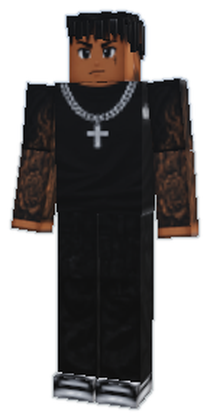
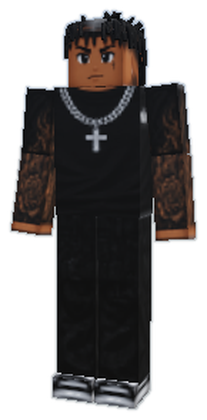
Cabelo 3D com formas de verdade: espirais, tubos, touca arredondada e bolinhas
- Touca: superelipsoide (caixa de cantos redondos) que abraça a cabeça quadrada; desce pouco
  na frente (testa livre) e mais atrás (nuca); no curto fica só no alto (degradê)
- Cacheado: espirais (tubos enrolados) por toda a cabeça e franja de cachos na testa
- Dreads: mechas em tubo que saem da cabeça e caem com o peso, torcidas, mais longas atrás
- Black: volume grande arredondado coberto de bolinhas
- Curto: espirais pequenas só no alto
- Textura do cabelo da própria skin; cachos e mechas só de perto (camada de detalhe), a touca
  sempre; triângulos da partida iguais (225 mil no Leve), malhas +3 MB
- Versão 0.22

Claude-Session: https://claude.ai/code/session_012EZ5KKTFERXFdQTAkopxx1

diff --git a/motor/procgen/Character.cpp b/motor/procgen/Character.cpp
@@ -505,94 +505,208 @@ void buildBlockVest(const CharacterParams& p, MeshBuilder& b) {
     b.color = glm::vec4(1.f);
 }
 
-// Cabelo 3D de blocos (ver Character.h). Cabeça: cubo de 0,15H centrado em 0,915H (frente em +0,07H).
-void buildBlockHair(const CharacterParams& p, MeshBuilder& b, uint32_t seed) {
-    if (p.cabelo3d <= 0) return;
-    const float H = p.height, hy = 0.915f * H, top = hy + 0.075f * H, hx = 0.075f * H, hzF = 0.07f * H, hzB = -0.07f * H;
-    Rng r(seed * 2654435761u + 17u);
-    b.joint = -1;
-    b.xf = glm::mat4(1.f);
-    b.uvTile = glm::vec2(0.f);
-    // pedaço da skin para cada bloco: um quadradinho do TOPO da cabeça (ou do alto das COSTAS)
-    glm::vec4 rects[6];
-    auto escolheUV = [&](bool costas) {
-        if (!p.texturizado) { b.faceRects = nullptr; return; }
-        const glm::vec4 q = costas ? p.molde[SP_Cabeca][1] : p.molde[SP_Cabeca][4];
-        const float w = q.z - q.x, h = (q.w - q.y) * (costas ? 0.45f : 1.f);
-        const float fw = w * 0.3f, fh = h * 0.3f;
-        const float u0 = q.x + r.range(0.f, w - fw), v0 = q.y + r.range(0.f, h - fh);
-        for (glm::vec4& x : rects) x = {u0, v0, u0 + fw, v0 + fh};
-        b.faceRects = rects;
-    };
-    auto cor = [&]() {
-        if (p.texturizado) return glm::vec4(1.f);
-        const float k = r.range(0.85f, 1.12f);
-        return glm::vec4(glm::min(glm::vec3(p.hair) * k, glm::vec3(1.f)), 1.f);
-    };
-    auto bloco = [&](glm::vec3 c, glm::vec3 s, bool costas = false) {
-        escolheUV(costas);
-        b.color = cor();
-        b.boxC(c, s);
-    };
-    const float u = H;  // medidas em fração da altura
-    const int tipo = p.cabelo3d;
-    // base: touca colada na cabeça (alto, laterais de cima e nuca)
-    const float folga = 0.006f * u;
-    const float capY = tipo == 3 ? 0.012f * u : 0.02f * u;
-    bloco({0.f, top + capY * 0.5f - 0.004f * u, -0.004f * u}, {2.f * (hx + folga), capY + 0.008f * u, hzF - hzB + 0.006f * u});
-    if (tipo != 3) {  // curto: lados raspados (degradê); os outros cobrem lados e nuca
-        for (float s : {-1.f, 1.f})
-            bloco({s * (hx + folga * 0.5f), top - 0.025f * u, -0.01f * u}, {folga, 0.05f * u, hzF - hzB - 0.02f * u});
-        bloco({0.f, top - 0.04f * u, hzB - folga * 0.5f}, {2.f * (hx + folga), 0.08f * u, folga}, true);
+// ---------------- cabelo 3D ----------------
+// Formas do cabelo: tubos ao longo de uma curva (espirais dos cachos, mechas dos dreads), touca arredondada
+// (superelipsoide, abraça a cabeça quadrada) e bolinhas. Cada triângulo sai virado para fora (confere a normal).
+namespace {
+struct HairMesh {
+    MeshBuilder& b;
+    void tri(glm::vec3 p0, glm::vec3 p1, glm::vec3 p2, glm::vec3 n0, glm::vec3 n1, glm::vec3 n2, glm::vec2 t0, glm::vec2 t1, glm::vec2 t2) {
+        if (glm::dot(glm::cross(p1 - p0, p2 - p0), n0 + n1 + n2) < 0.f) { std::swap(p1, p2); std::swap(n1, n2); std::swap(t1, t2); }
+        const glm::vec3 tg = glm::length(p1 - p0) > 1e-7f ? glm::normalize(p1 - p0) : glm::vec3(1, 0, 0);
+        const uint32_t i = uint32_t(b.v.size());
+        b.pushVertex(p0, n0, t0, tg); b.pushVertex(p1, n1, t1, tg); b.pushVertex(p2, n2, t2, tg);
+        b.idx.push_back(i); b.idx.push_back(i + 1); b.idx.push_back(i + 2);
     }
-    auto noAlto = [&](float rx, float rz, float lift) {  // ponto no alto da cabeça (rx, rz de -1 a 1)
-        return glm::vec3(rx * hx, top + capY + lift, hzB + (rz * 0.5f + 0.5f) * (hzF - hzB));
-    };
-    if (tipo == 1 || tipo == 2) {  // cacheado / black: cachos (blocos) por cima, dos lados e atrás
-        const int n = tipo == 2 ? 70 : 46;
-        const float esc = tipo == 2 ? 1.35f : 1.f;
-        for (int i = 0; i < n; ++i) {
-            const float s = r.range(0.022f, 0.036f) * esc * u;
-            const int lado = i % 5;
-            glm::vec3 c;
-            if (lado < 3) c = noAlto(r.range(-1.f, 1.f), r.range(-1.f, 0.85f), r.range(-0.004f, 0.012f) * esc * u);
-            else if (lado == 3) {
-                const float sx = r.chance(0.5f) ? 1.f : -1.f;
-                c = {sx * (hx + folga + s * 0.25f), top - r.range(0.f, 0.035f) * u, r.range(hzB, hzF - 0.02f * u)};
-            } else c = {r.range(-hx, hx), top - r.range(0.f, 0.06f) * u, hzB - folga - s * 0.25f};
-            bloco(c, glm::vec3(s, s * r.range(0.8f, 1.1f), s), lado == 4);
+    static glm::vec2 uvIn(glm::vec4 r, float u, float v) { return {r.x + (r.z - r.x) * u, r.y + (r.w - r.y) * v}; }
+    // Tubo pela curva P com raio R em cada ponto (n lados); a ponta de cima é tampada
+    void tube(const std::vector<glm::vec3>& P, const std::vector<float>& R, int n, glm::vec4 uvr) {
+        const size_t N = P.size();
+        if (N < 2) return;
+        std::vector<glm::vec3> T(N), Nn(N), B(N);
+        for (size_t i = 0; i < N; ++i) T[i] = glm::normalize(P[std::min(i + 1, N - 1)] - P[i > 0 ? i - 1 : 0]);
+        glm::vec3 ref = std::abs(T[0].y) < 0.9f ? glm::vec3(0, 1, 0) : glm::vec3(1, 0, 0);
+        Nn[0] = glm::normalize(glm::cross(ref, T[0]));
+        for (size_t i = 1; i < N; ++i) {  // transporte paralelo (o tubo não torce)
+            glm::vec3 q = Nn[i - 1] - T[i] * glm::dot(Nn[i - 1], T[i]);
+            Nn[i] = glm::length(q) > 1e-6f ? glm::normalize(q) : Nn[i - 1];
         }
-        // franja: cachos na beira da testa
-        for (int i = 0; i < 7; ++i) {
-            const float s = r.range(0.02f, 0.03f) * esc * u;
-            bloco({-hx + (i + 0.5f) * (2.f * hx / 7.f), top - 0.004f * u, hzF - 0.006f * u}, glm::vec3(s, s * 0.9f, s * 0.8f));
-        }
-        if (tipo == 2)  // black: o volume arredondado por baixo dos cachos
-            bloco({0.f, top + 0.035f * u, -0.01f * u}, {2.f * hx + 0.04f * u, 0.05f * u, hzF - hzB + 0.03f * u});
-    } else if (tipo == 3) {  // curto: cachinhos só no alto
-        for (int i = 0; i < 32; ++i) {
-            const float s = r.range(0.016f, 0.024f) * u;
-            bloco(noAlto(r.range(-0.95f, 0.95f), r.range(-0.95f, 0.9f), r.range(-0.006f, 0.004f) * u), glm::vec3(s));
-        }
-    } else if (tipo == 4) {  // dreads: mechas finas caindo pela testa, lados e nuca + bolinhas no alto
-        for (int i = 0; i < 26; ++i) {
-            const float s = r.range(0.018f, 0.024f) * u;
-            bloco(noAlto(r.range(-0.95f, 0.95f), r.range(-0.95f, 0.9f), 0.f), glm::vec3(s));
-        }
-        auto mecha = [&](glm::vec3 alto, float len, bool costas) {
-            const float g = r.range(0.013f, 0.017f) * u;
-            bloco(alto - glm::vec3(0, len * 0.5f, 0), {g, len, g}, costas);
+        for (size_t i = 0; i < N; ++i) B[i] = glm::cross(T[i], Nn[i]);
+        auto ring = [&](size_t i, int k, glm::vec3& pos, glm::vec3& nor) {
+            const float a = 6.2831853f * float(k) / float(n);
+            nor = Nn[i] * std::cos(a) + B[i] * std::sin(a);
+            pos = P[i] + nor * R[i];
         };
-        for (int i = 0; i < 8; ++i)  // franja
-            mecha({-hx + (i + 0.5f) * (2.f * hx / 8.f), top + 0.004f * u, hzF + 0.004f * u}, r.range(0.03f, 0.05f) * u, false);
-        for (float sx : {-1.f, 1.f})
-            for (int i = 0; i < 5; ++i)
-                mecha({sx * (hx + 0.008f * u), top + 0.004f * u, hzB + (i + 0.5f) * ((hzF - hzB) * 0.75f / 5.f)}, r.range(0.05f, 0.08f) * u, false);
-        for (int i = 0; i < 8; ++i)
-            mecha({-hx + (i + 0.5f) * (2.f * hx / 8.f), top + 0.004f * u, hzB - 0.008f * u}, r.range(0.07f, 0.1f) * u, true);
+        for (size_t i = 0; i + 1 < N; ++i)
+            for (int k = 0; k < n; ++k) {
+                glm::vec3 a0, a1, b0, b1, na0, na1, nb0, nb1;
+                ring(i, k, a0, na0); ring(i, k + 1, a1, na1); ring(i + 1, k, b0, nb0); ring(i + 1, k + 1, b1, nb1);
+                const float u0 = float(k) / n, u1 = float(k + 1) / n, v0 = float(i) / (N - 1), v1 = float(i + 1) / (N - 1);
+                tri(a0, a1, b0, na0, na1, nb0, uvIn(uvr, u0, v0), uvIn(uvr, u1, v0), uvIn(uvr, u0, v1));
+                tri(a1, b1, b0, na1, nb1, nb0, uvIn(uvr, u1, v0), uvIn(uvr, u1, v1), uvIn(uvr, u0, v1));
+            }
+        for (int k = 0; k < n; ++k) {  // tampa da ponta
+            glm::vec3 a0, a1, na0, na1;
+            ring(N - 1, k, a0, na0); ring(N - 1, k + 1, a1, na1);
+            tri(P[N - 1], a0, a1, T[N - 1], T[N - 1], T[N - 1], uvIn(uvr, 0.5f, 1.f), uvIn(uvr, 0.f, 1.f), uvIn(uvr, 1.f, 1.f));
+        }
     }
-    b.faceRects = nullptr;
-    b.color = glm::vec4(1.f);
+    // Touca: superelipsoide (cantos suaves que cobrem a cabeça quadrada) centrada em c, raios rad; do alto até o
+    // ângulo phiMax(theta) (theta 0 = frente): desce pouco na frente (testa livre) e bastante atrás (nuca)
+    static glm::vec3 superDir(float th, float ph, glm::vec3 rad, glm::vec3& nor) {
+        const glm::vec3 d(std::sin(ph) * std::sin(th), std::cos(ph), std::sin(ph) * std::cos(th));
+        auto f = [](float x) { return (x < 0.f ? -1.f : 1.f) * std::sqrt(std::abs(x)); };  // expoente 1/2: formato de caixa redonda
+        const glm::vec3 p(rad.x * f(d.x), rad.y * f(d.y), rad.z * f(d.z));
+        auto g = [](float x, float r) { float t = x / r; return t * t * t / r; };  // gradiente de (x/r)^4 (já tem o sinal)
+        glm::vec3 n(g(p.x, rad.x), g(p.y, rad.y), g(p.z, rad.z));
+        nor = glm::length(n) > 1e-9f ? glm::normalize(n) : d;
+        return p;
+    }
+    void cap(glm::vec3 c, glm::vec3 rad, float phiFrente, float phiAtras, int fat, int pil, glm::vec4 uvr) {
+        auto phiMax = [&](float th) { float t = 0.5f - 0.5f * std::cos(th); return phiFrente + (phiAtras - phiFrente) * t * t; };
+        for (int i = 0; i < fat; ++i)
+            for (int j = 0; j < pil; ++j) {
+                const float th0 = 6.2831853f * i / fat, th1 = 6.2831853f * (i + 1) / fat;
+                const float v0 = float(j) / pil, v1 = float(j + 1) / pil;
+                glm::vec3 n00, n10, n01, n11;
+                glm::vec3 p00 = c + superDir(th0, v0 * phiMax(th0), rad, n00), p10 = c + superDir(th1, v0 * phiMax(th1), rad, n10);
+                glm::vec3 p01 = c + superDir(th0, v1 * phiMax(th0), rad, n01), p11 = c + superDir(th1, v1 * phiMax(th1), rad, n11);
+                const float u0 = float(i) / fat, u1 = float(i + 1) / fat;
+                if (j > 0) tri(p00, p10, p01, n00, n10, n01, uvIn(uvr, u0, v0), uvIn(uvr, u1, v0), uvIn(uvr, u0, v1));
+                tri(p10, p11, p01, n10, n11, n01, uvIn(uvr, u1, v0), uvIn(uvr, u1, v1), uvIn(uvr, u0, v1));
+            }
+    }
+    // ponto da touca (para plantar cachos e mechas): posição e normal
+    glm::vec3 onCap(glm::vec3 c, glm::vec3 rad, float th, float ph, glm::vec3& nor) { return c + superDir(th, ph, rad, nor); }
+    // bolinha (esfera baixa)
+    void ball(glm::vec3 c, float r, glm::vec4 uvr) {
+        const int fat = 6, pil = 4;
+        for (int i = 0; i < fat; ++i)
+            for (int j = 0; j < pil; ++j) {
+                auto P = [&](int a, int bb, glm::vec3& n) {
+                    const float th = 6.2831853f * a / fat, ph = 3.14159265f * bb / pil;
+                    n = {std::sin(ph) * std::sin(th), std::cos(ph), std::sin(ph) * std::cos(th)};
+                    return c + n * r;
+                };
+                glm::vec3 n00, n10, n01, n11;
+                glm::vec3 p00 = P(i, j, n00), p10 = P(i + 1, j, n10), p01 = P(i, j + 1, n01), p11 = P(i + 1, j + 1, n11);
+                const glm::vec2 t(uvIn(uvr, float(i) / fat, float(j) / pil));
+                if (j > 0) tri(p00, p10, p01, n00, n10, n01, t, t, t);
+                if (j + 1 < pil) tri(p10, p11, p01, n10, n11, n01, t, t, t);
+            }
+    }
+};
+}  // namespace
+
+// Cabelo 3D (ver Character.h). Cabeça: cubo de 0,15H centrado em 0,915H (frente em +0,07H).
+void buildBlockHair(const CharacterParams& p, Geo& g, uint32_t seed) {
+    if (p.cabelo3d <= 0) return;
+    const float H = p.height, top = 0.99f * H;
+    const int tipo = p.cabelo3d;
+    Rng r(seed * 2654435761u + 17u);
+    // textura: com skin, um pedaço do desenho do cabelo do TOPO da cabeça; sem skin, branco (a cor vai no vértice)
+    const glm::vec4 topo = p.texturizado ? p.molde[SP_Cabeca][4] : glm::vec4(0.f, 0.f, 1.f, 1.f);
+    auto pedaco = [&](float tam) {
+        const float w = (topo.z - topo.x) * tam, h = (topo.w - topo.y) * tam;
+        const float u0 = topo.x + r.range(0.f, topo.z - topo.x - w), v0 = topo.y + r.range(0.f, topo.w - topo.y - h);
+        return glm::vec4(u0, v0, u0 + w, v0 + h);
+    };
+    auto cor = [&](MeshBuilder& m) {
+        const float k = p.texturizado ? 1.f : r.range(0.85f, 1.12f);
+        m.color = p.texturizado ? glm::vec4(1.f) : glm::vec4(glm::min(glm::vec3(p.hair) * k, glm::vec3(1.f)), 1.f);
+    };
+    MeshBuilder& base = g[Mat::Painted];
+    base.joint = -1; base.xf = glm::mat4(1.f); base.uvTile = glm::vec2(0.f);
+    HairMesh hb{base};
+    // touca de cada estilo (centro, raios, quanto desce na frente e atrás)
+    glm::vec3 c(0.f, 0.935f * H, -0.004f * H), rad(0.097f * H, 0.088f * H, 0.096f * H);
+    float phiF = 1.32f, phiA = 2.45f;
+    if (tipo == 2) { c.y = 0.96f * H; rad = glm::vec3(0.128f, 0.118f, 0.128f) * H; phiF = 1.18f; phiA = 2.2f; }   // black: volume grande
+    if (tipo == 3) { rad = glm::vec3(0.091f, 0.08f, 0.09f) * H; phiF = 1.25f; phiA = 1.7f; }                      // curto: lados raspados
+    if (tipo == 4) { rad = glm::vec3(0.093f, 0.083f, 0.092f) * H; phiF = 1.3f; phiA = 2.0f; }
+    cor(base);
+    hb.cap(c, rad, phiF, phiA, 16, 7, topo);
+    // detalhe (só de perto): cachos, mechas, bolinhas
+    DetailScope ds(g);
+    MeshBuilder& det = g[Mat::Painted];
+    det.joint = -1; det.xf = glm::mat4(1.f); det.uvTile = glm::vec2(0.f);
+    HairMesh hd{det};
+    auto plantar = [&](float th, float vFrac, float phiFr, float phiAt, glm::vec3& n) {
+        float t = 0.5f - 0.5f * std::cos(th);
+        float ph = vFrac * (phiFr + (phiAt - phiFr) * t * t);
+        return hd.onCap(c, rad, th, ph, n);
+    };
+    auto espiral = [&](glm::vec3 base0, glm::vec3 eixo, float comp, float raioVolta, float raioTubo, float voltas, int lados) {
+        eixo = glm::normalize(eixo);
+        glm::vec3 ref = std::abs(eixo.y) < 0.9f ? glm::vec3(0, 1, 0) : glm::vec3(1, 0, 0);
+        const glm::vec3 a1 = glm::normalize(glm::cross(ref, eixo)), a2 = glm::cross(eixo, a1);
+        const int seg = std::max(6, int(voltas * 6.f));
+        const float fase = r.range(0.f, 6.2831853f);
+        std::vector<glm::vec3> P; std::vector<float> R;
+        for (int i = 0; i <= seg; ++i) {
+            const float t = float(i) / seg, ang = fase + t * voltas * 6.2831853f;
+            const float rv = raioVolta * (1.f - 0.25f * t);  // a ponta do cacho afina
+            P.push_back(base0 + eixo * (comp * t) + (a1 * std::cos(ang) + a2 * std::sin(ang)) * rv);
+            R.push_back(raioTubo * (1.f - 0.35f * t));
+        }
+        cor(det);
+        hd.tube(P, R, lados, pedaco(0.25f));
+    };
+    const glm::vec3 up(0.f, 1.f, 0.f), frente(0.f, 0.f, 1.f);
+    if (tipo == 1) {  // cacheado: espirais por toda a touca + franja de cachos caindo na testa
+        for (int i = 0; i < 64; ++i) {
+            glm::vec3 n;
+            const float th = r.range(0.f, 6.2831853f), vf = std::sqrt(r.range(0.02f, 0.92f));
+            glm::vec3 pt = plantar(th, vf, phiF, phiA, n);
+            glm::vec3 eixo = n + up * 0.35f + glm::vec3(r.range(-0.3f, 0.3f), 0.f, r.range(-0.3f, 0.3f));
+            espiral(pt - n * 0.006f * H, eixo, r.range(0.026f, 0.04f) * H, 0.0095f * H, 0.0068f * H, r.range(1.1f, 1.6f), 4);
+        }
+        for (int i = 0; i < 8; ++i) {  // franja
+            glm::vec3 n;
+            const float th = -0.75f + 1.5f * (i + 0.5f) / 8.f;
+            glm::vec3 pt = plantar(th, 0.97f, phiF, phiA, n);
+            espiral(pt, frente * 0.6f - up + glm::vec3(r.range(-0.2f, 0.2f), 0.f, 0.f), r.range(0.022f, 0.032f) * H, 0.007f * H, 0.005f * H, 1.2f, 4);
+        }
+    } else if (tipo == 2) {  // black: bolinhas por toda a superfície do volume
+        for (int i = 0; i < 70; ++i) {
+            glm::vec3 n;
+            const float th = r.range(0.f, 6.2831853f), vf = std::sqrt(r.range(0.f, 0.95f));
+            glm::vec3 pt = plantar(th, vf, phiF, phiA, n);
+            cor(det);
+            hd.ball(pt + n * 0.004f * H, r.range(0.012f, 0.02f) * H, pedaco(0.2f));
+        }
+    } else if (tipo == 3) {  // curto: espirais pequenas só no alto
+        for (int i = 0; i < 36; ++i) {
+            glm::vec3 n;
+            const float th = r.range(0.f, 6.2831853f), vf = std::sqrt(r.range(0.f, 0.7f));
+            glm::vec3 pt = plantar(th, vf, phiF, phiA, n);
+            espiral(pt - n * 0.003f * H, n + up * 0.5f, r.range(0.014f, 0.022f) * H, 0.006f * H, 0.004f * H, 1.1f, 4);
+        }
+    } else if (tipo == 4) {  // dreads: mechas torcidas que saem da cabeça e caem com o peso
+        for (int i = 0; i < 34; ++i) {
+            glm::vec3 n;
+            const float th = 6.2831853f * (i + r.range(0.f, 0.8f)) / 34.f, vf = r.range(0.55f, 0.85f);
+            glm::vec3 pt = plantar(th, vf, phiF, phiA, n);
+            const float tt = 0.5f - 0.5f * std::cos(th);                 // 0 frente, 1 atrás
+            const float comp = (0.035f + 0.085f * tt) * H * r.range(0.85f, 1.15f);
+            glm::vec3 sai = glm::normalize(glm::vec3(n.x, 0.f, n.z) + glm::vec3(0.f, 0.001f, 0.f));
+            std::vector<glm::vec3> P; std::vector<float> R;
+            const int K = 6;
+            for (int k = 0; k <= K; ++k) {
+                const float t = float(k) / K;
+                P.push_back(pt - n * 0.003f * H + sai * (0.016f * H * std::sqrt(t)) - up * (comp * std::pow(t, 1.4f)));
+                R.push_back((0.0085f - 0.0025f * t) * H * (k % 2 ? 0.85f : 1.f));  // torção: grosso, fino, grosso...
+            }
+            cor(det);
+            hd.tube(P, R, 5, pedaco(0.3f));
+        }
+        for (int i = 0; i < 18; ++i) {  // pontas curtas no alto
+            glm::vec3 n;
+            glm::vec3 pt = plantar(r.range(0.f, 6.2831853f), std::sqrt(r.range(0.f, 0.5f)), phiF, phiA, n);
+            espiral(pt - n * 0.003f * H, n + up * 0.6f, r.range(0.014f, 0.02f) * H, 0.003f * H, 0.0065f * H, 0.6f, 5);
+        }
+    }
+    base.color = glm::vec4(1.f);
 }
 
 void buildCharacter(const CharacterParams& p, LoadedModel& out, MeshBuilder& b) {

diff --git a/motor/procgen/Character.h b/motor/procgen/Character.h
@@ -4,6 +4,7 @@
 #include "procgen/MeshBuilder.h"
 
 namespace eng {
+struct Geo;
 
 // Ossos do humanoide procedural (pais sempre antes dos filhos)
 enum CharJoint { CJ_Hips, CJ_Spine, CJ_Chest, CJ_Head, CJ_LUpper, CJ_LFore, CJ_LHand, CJ_RUpper, CJ_RFore, CJ_RHand,
@@ -60,9 +61,9 @@ CharacterParams randomCharacter(uint32_t seed);
 void buildCharacter(const CharacterParams& p, LoadedModel& out, MeshBuilder& mesh);
 // Colete do boneco em blocos como peça separada (malha no espaço do personagem; vai preso no osso do peito)
 void buildBlockVest(const CharacterParams& p, MeshBuilder& mesh);
-// Cabelo 3D de blocos (p.cabelo3d), no espaço do personagem; vai preso no osso da cabeça. Com skin pintada
-// (p.texturizado), os blocos usam o desenho do cabelo do TOPO e das COSTAS da cabeça da skin; sem, a cor p.hair.
-void buildBlockHair(const CharacterParams& p, MeshBuilder& mesh, uint32_t seed);
+// Cabelo 3D (p.cabelo3d): touca arredondada + espirais (cacheado/curto), bolinhas (black) ou mechas (dreads), no espaço do
+// personagem; vai preso no osso da cabeça. Com skin pintada, usa o desenho do cabelo do TOPO da cabeça; sem, a cor p.hair.
+void buildBlockHair(const CharacterParams& p, Geo& g, uint32_t seed);  // a base fica sempre; cachos/mechas só de perto
 
 // Armas: origem no ponto de empunhadura, cano para +Z, topo para +Y
 enum WeaponKind { WK_Pistol, WK_Rifle, WK_Shotgun, WK_Sniper, WK_Knife, WK_Bat, WK_Count };

diff --git a/motor/engine/Project.cpp b/motor/engine/Project.cpp
@@ -945,7 +945,7 @@ int createFromSpecJson(Engine* e, const std::string& specJson, std::string* err)
         if (p.bloco && p.cabelo3d > 0 && (p.chapeu == 0 || p.texturizado)) {  // cabelo 3D (por cima da cabeça)
             Geo hair;
             hair.place(glm::vec3(0.f), 0.f);
-            buildBlockHair(p, hair[Mat::Painted], seed);
+            buildBlockHair(p, hair, seed);
             const int hid = attachGearMesh(e, ci, CJ_Head, hair, "Cabelo");
             if (hid < 0) e->lastError.clear();
             else {
